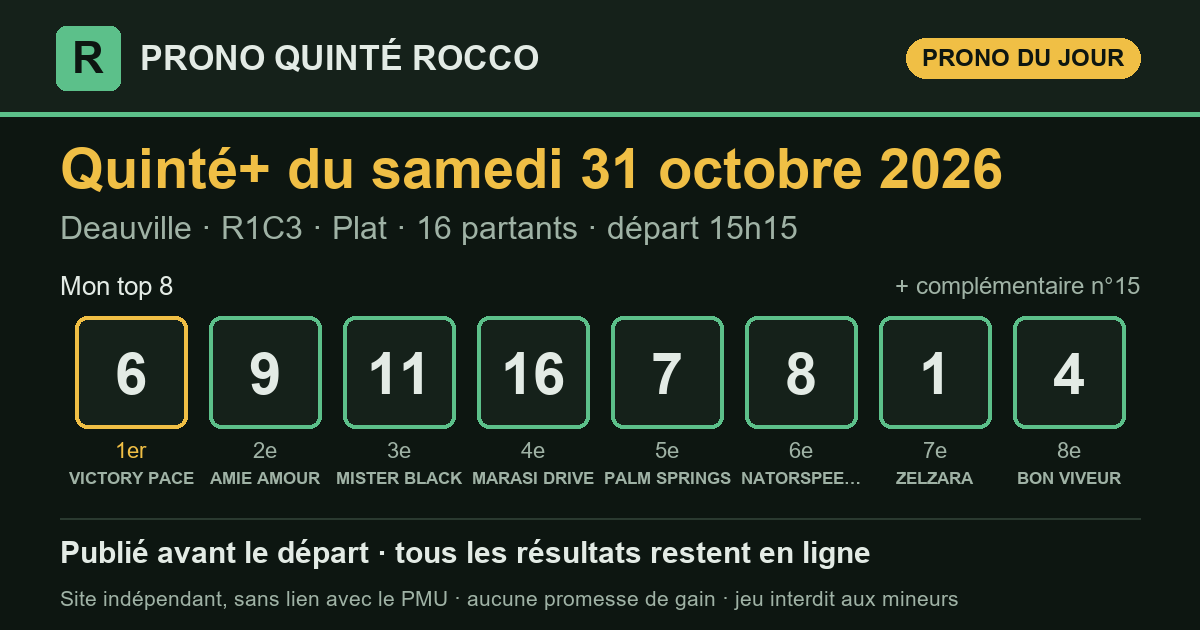
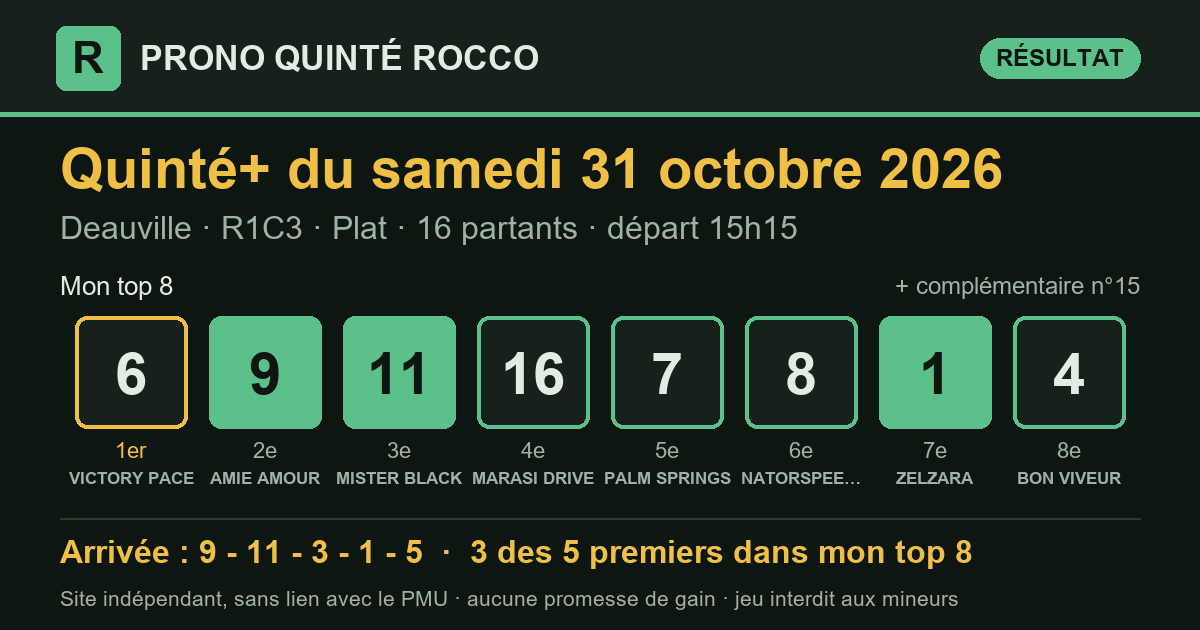
Prono Quinté+ 2026-10-31 Deauville R1C3 — publié le 31/10/2026 21:57 (heure de Paris)

diff --git a/partants.html b/partants.html
@@ -3,7 +3,7 @@
 <head>
 <meta charset="utf-8">
 <meta name="viewport" content="width=device-width, initial-scale=1, viewport-fit=cover">
-<title>Partants du Quinté+ du samedi 31 octobre 2026 — Prono Quinté Rocco</title>
+<title>Partants du Quinté+ du dimanche 1 novembre 2026 — Prono Quinté Rocco</title>
 <meta name="description" content="Les partants du prochain Quinté+ (programme officiel du PMU), avec le rang de chaque cheval dans mon prono et les liens vers les pronostics de la presse.">
 <link rel="canonical" href="https://prono-quinte-rocco.fr/partants.html">
 <link rel="stylesheet" href="style.css?v=88a1c822">
@@ -13,7 +13,7 @@
 <meta property="og:site_name" content="Prono Quinté Rocco">
 <meta property="og:locale" content="fr_FR">
 <meta property="og:type" content="website">
-<meta property="og:title" content="Partants du Quinté+ du samedi 31 octobre 2026 — Prono Quinté Rocco">
+<meta property="og:title" content="Partants du Quinté+ du dimanche 1 novembre 2026 — Prono Quinté Rocco">
 <meta property="og:description" content="Les partants du prochain Quinté+ (programme officiel du PMU), avec le rang de chaque cheval dans mon prono et les liens vers les pronostics de la presse.">
 <meta property="og:url" content="https://prono-quinte-rocco.fr/partants.html">
 <meta name="twitter:card" content="summary">
@@ -29,100 +29,110 @@
   <p class="surtitre">Programme officiel du PMU</p>
   <h1>Les partants du prochain Quinté+</h1>
   <div class="fiche-course">
-    <p class="fiche-date">Samedi 31 octobre 2026</p>
-    <div class="fiche-rc"><span class="pastille" title="Réunion 1">R1</span><span class="pastille" title="Course 3">C3</span><span class="fiche-nom">Prix du Pays de Bray</span></div>
-    <p class="meta">Deauville · Plat · 1 900 m · 16 partants</p>
+    <p class="fiche-date">Dimanche 1 novembre 2026</p>
+    <div class="fiche-rc"><span class="pastille" title="Réunion 1">R1</span><span class="pastille" title="Course 4">C4</span><span class="fiche-nom">Grand Prix de la Ville de Laval</span></div>
+    <p class="meta">Laval · Trot_attele · 2 850 m · 18 partants</p>
     <p class="fiche-depart">Départ <b>15:15</b> <span>heure de Paris</span></p>
   </div>
   <p class="surtitre">Les pronostics ailleurs sur le web</p>
-  <div class="liens"><a class="lien-ext" href="https://www.turfoo.fr/programmes-courses/261031/reunion1-deauville/course3-prix-du-pays-de-bray/pronostics-presse/" rel="noopener" target="_blank"><b>Les pronostics de la presse →</b><span>sur Turfoo (site extérieur)</span></a><a class="lien-ext" href="https://www.geny.com/programme/2026-10-31" rel="noopener" target="_blank"><b>Partants et pronostics →</b><span>programme du jour sur Geny (site extérieur)</span></a></div>
+  <div class="liens"><a class="lien-ext" href="https://www.turfoo.fr/programmes-courses/261101/reunion1-laval/course4-grand-prix-de-la-ville-de-laval/pronostics-presse/" rel="noopener" target="_blank"><b>Les pronostics de la presse →</b><span>sur Turfoo (site extérieur)</span></a><a class="lien-ext" href="https://www.geny.com/programme/2026-11-01" rel="noopener" target="_blank"><b>Partants et pronostics →</b><span>programme du jour sur Geny (site extérieur)</span></a></div>
   <div class="liste-boite"><table class="liste-partants">
     <thead><tr><th>N°</th><th>Cheval</th><th class="cote"><span class="long">Cote du matin</span><span class="court">Cote</span></th>
     <th class="ia"><span class="long">Mon prono</span><span class="court">Prono</span></th></tr></thead>
     <tbody><tr>
   <td><span class="tapis petit">1</span></td>
-  <td><span class="cheval">ZELZARA</span><span class="sous">H.JOURNIAC · Y.BARBEROT (S)</span></td>
-  <td class="cote num">13,0</td>
-  <td class="ia"><span class="etat place">7<sup>e</sup></span></td>
+  <td><span class="cheval">JERICHO DU RIB</span><span class="sous">Mme C. HALLAIS-DERSOIR · JOEL HALLAIS</span></td>
+  <td class="cote num">—</td>
+  <td class="ia">—</td>
 </tr><tr>
   <td><span class="tapis petit">2</span></td>
-  <td><span class="cheval">WOOD MING</span><span class="sous">R.THOMAS · MME C.BARANDE BARBE</span></td>
-  <td class="cote num">30,0</td>
+  <td><span class="cheval">JIBI DU FRUITIER</span><span class="sous">M. MOTTIER · CH.M. BRUNEAU</span></td>
+  <td class="cote num">—</td>
   <td class="ia">—</td>
 </tr><tr>
   <td><span class="tapis petit">3</span></td>
-  <td><span class="cheval">LOUIZA</span><span class="sous">PC.BOUDOT · M.DELZANGLES</span></td>
-  <td class="cote num">15,0</td>
+  <td><span class="cheval">JERZINHO SPORT</span><span class="sous">F. BOUDET · Mme CL. DESMONTILS</span></td>
+  <td class="cote num">—</td>
   <td class="ia">—</td>
 </tr><tr>
   <td><span class="tapis petit">4</span></td>
-  <td><span class="cheval">BON VIVEUR</span><span class="sous">S.PASQUIER · G.PANNIER</span></td>
-  <td class="cote num">14,0</td>
-  <td class="ia"><span class="etat place">8<sup>e</sup></span></td>
+  <td><span class="cheval">LAROZE DU GERS</span><span class="sous">M. ABRIVARD · M. ABRIVARD</span></td>
+  <td class="cote num">—</td>
+  <td class="ia">—</td>
 </tr><tr>
   <td><span class="tapis petit">5</span></td>
-  <td><span class="cheval">CRACKON</span><span class="sous">I.MENDIZABAL · M.DELCHER SANCHEZ</span></td>
-  <td class="cote num">14,0</td>
+  <td><span class="cheval">FAR WEST BI</span><span class="sous">E. RAFFIN · H.E. BONDO</span></td>
+  <td class="cote num">—</td>
   <td class="ia">—</td>
 </tr><tr>
   <td><span class="tapis petit">6</span></td>
-  <td><span class="cheval">VICTORY PACE</span><span class="sous">M.GRANDIN · G.MOSSE (S)</span></td>
-  <td class="cote num">5,9</td>
-  <td class="ia"><span class="etat place">1<sup>er</sup></span></td>
+  <td><span class="cheval">LEMON TREE</span><span class="sous">A. ABRIVARD · W. BIGEON</span></td>
+  <td class="cote num">—</td>
+  <td class="ia">—</td>
 </tr><tr>
   <td><span class="tapis petit">7</span></td>
-  <td><span class="cheval">PALM SPRINGS</span><span class="sous">C.LECOEUVRE · M.BARATTI (S)</span></td>
-  <td class="cote num">10,0</td>
-  <td class="ia"><span class="etat place">5<sup>e</sup></span></td>
+  <td><span class="cheval">JANKO HAUFOR</span><span class="sous">D. BONNE · CH. BIGEON</span></td>
+  <td class="cote num">—</td>
+  <td class="ia">—</td>
 </tr><tr>
   <td><span class="tapis petit">8</span></td>
-  <td><span class="cheval">NATORSPEED ESSEF</span><span class="sous">T.PICCONE · HA.PANTALL (S)</span></td>
-  <td class="cote num">14,0</td>
-  <td class="ia"><span class="etat place">6<sup>e</sup></span></td>
+  <td><span class="cheval">JASMINE DE VAU</span><span class="sous">CH. DREUX · Ch. DREUX</span></td>
+  <td class="cote num">—</td>
+  <td class="ia">—</td>
 </tr><tr>
   <td><span class="tapis petit">9</span></td>
-  <td><span class="cheval">AMIE AMOUR</span><span class="sous">M.GUYON · P&amp;J.BRANDT (S)</span></td>
-  <td class="cote num">6,1</td>
-  <td class="ia"><span class="etat place">2<sup>e</sup></span></td>
+  <td><span class="cheval">INDY DARK</span><span class="sous">P.EDOUARD MARY · J.F. MARY</span></td>
+  <td class="cote num">—</td>
+  <td class="ia">—</td>
 </tr><tr>
   <td><span class="tapis petit">10</span></td>
-  <td><span class="cheval">IL MAGISTERO</span><span class="sous">L.PLOMMEE · M.CESANDRI (S)</span></td>
-  <td class="cote num">39,0</td>
+  <td><span class="cheval">ILLUSION JIPAD</span><span class="sous">P. LELIEVRE · P. LELIEVRE</span></td>
+  <td class="cote num">—</td>
   <td class="ia">—</td>
 </tr><tr>
   <td><span class="tapis petit">11</span></td>
-  <td><span class="cheval">MISTER BLACK</span><span class="sous">M.LERNER · C&amp;Y.LERNER (S)</span></td>
-  <td class="cote num">7,5</td>
-  <td class="ia"><span class="etat place">3<sup>e</sup></span></td>
+  <td><span class="cheval">L&#x27;ECRIN D&#x27;OR</span><span class="sous">J.PH. RAFFEGEAU · L.CL. ABRIVARD</span></td>
+  <td class="cote num">—</td>
+  <td class="ia">—</td>
 </tr><tr>
   <td><span class="tapis petit">12</span></td>
-  <td><span class="cheval">INGEBORG</span><span class="sous">H.BOUTIN · J.BOISNARD (S)</span></td>
-  <td class="cote num">31,0</td>
+  <td><span class="cheval">IBIZA BELLA</span><span class="sous">A. WIELS · J.P. MARMION</span></td>
+  <td class="cote num">—</td>
   <td class="ia">—</td>
 </tr><tr>
   <td><span class="tapis petit">13</span></td>
-  <td><span class="cheval">BLANC CARAT</span><span class="sous">G.SIAS · V.SARTORI</span></td>
-  <td class="cote num">38,0</td>
+  <td><span class="cheval">IDYLLE EXPRESS</span><span class="sous">Mlle CL. LELIEVRE · EMILIEN RAULLINE</span></td>
+  <td class="cote num">—</td>
   <td class="ia">—</td>
 </tr><tr>
   <td><span class="tapis petit">14</span></td>
-  <td><span class="cheval">HONEY PEARL</span><span class="sous">A.CRASTUS · C.LECRIVAIN</span></td>
-  <td class="cote num">29,0</td>
+  <td><span class="cheval">INSHORE</span><span class="sous">LEO ABRIVARD · LEO ABRIVARD</span></td>
+  <td class="cote num">—</td>
   <td class="ia">—</td>
 </tr><tr>
   <td><span class="tapis petit">15</span></td>
-  <td><span class="cheval">PARVAGE</span><span class="sous">D.PROVOST · Y.BARBEROT (S)</span></td>
-  <td class="cote num">20,0</td>
-  <td class="ia"><span class="etat place">compl.</span></td>
+  <td><span class="cheval">ISOFOU DU CHENE</span><span class="sous">P.PH. PLOQUIN · J. LE MER</span></td>
+  <td class="cote num">—</td>
+  <td class="ia">—</td>
 </tr><tr>
   <td><span class="tapis petit">16</span></td>
-  <td><span class="cheval">MARASI DRIVE</span><span class="sous">A.LEMAITRE · F.CHAPPET (S)</span></td>
-  <td class="cote num">17,0</td>
-  <td class="ia"><span class="etat place">4<sup>e</sup></span></td>
+  <td><span class="cheval">J&#x27;AIME LE FOOT</span><span class="sous">A. LHERETE · Antoine LHERETE</span></td>
+  <td class="cote num">—</td>
+  <td class="ia">—</td>
+</tr><tr>
+  <td><span class="tapis petit">17</span></td>
+  <td><span class="cheval">KANTO AVIS</span><span class="sous">B. ROCHARD · M. SASSIER</span></td>
+  <td class="cote num">—</td>
+  <td class="ia">—</td>
+</tr><tr>
+  <td><span class="tapis petit">18</span></td>
+  <td><span class="cheval">KING OPERA</span><span class="sous">W. BIGEON · W. BIGEON</span></td>
+  <td class="cote num">—</td>
+  <td class="ia">—</td>
 </tr></tbody>
   </table></div>
-  <p class="meta">La colonne « Mon prono » donne le rang de chaque cheval dans mon top 8, tel qu&#x27;il est publié sur ce site. Sous chaque cheval : jockey · entraîneur. Partants et cotes : programme
-  officiel du PMU, lu le 31/10 à 11:07 (heure de Paris). NP = non-partant.</p>
+  <p class="meta">Mon prono de cette course sera publié le matin de la course, avant le départ. Sous chaque cheval : driver · entraîneur. Partants et cotes : programme
+  officiel du PMU, lu le 31/10 à 21:57 (heure de Paris). NP = non-partant.</p>
 </section>
 </main>
 <footer class="pied">

diff --git a/index.html b/index.html
@@ -16,7 +16,7 @@
 <meta property="og:title" content="Pronostic Quinté+ du samedi 31 octobre 2026 — Prono Quinté Rocco">
 <meta property="og:description" content="Pronostic Quinté+ du jour : mon top 8, publié avant le départ, puis tous les résultats et le rendement réel.">
 <meta property="og:url" content="https://prono-quinte-rocco.fr/">
-<meta property="og:image" content="https://prono-quinte-rocco.fr/partage/2026-10-31.png?v=f92602c6">
+<meta property="og:image" content="https://prono-quinte-rocco.fr/partage/2026-10-31.png?v=ea987340">
 <meta property="og:image:type" content="image/png">
 <meta property="og:image:width" content="1200">
 <meta property="og:image:height" content="630">
@@ -31,7 +31,7 @@
 </header>
 <main>
 <section class="une" aria-labelledby="t-jour">
-  <p class="surtitre">Quinté+ du jour</p>
+  <p class="surtitre">Dernier Quinté+</p>
   <h1 id="t-jour">Le prono du Quinté+, résultats compris</h1>
   <p class="chapo">Chaque matin, j'étudie les partants du Quinté+ avec le logiciel que
   j'ai conçu, selon ma propre méthode, qu'une intelligence artificielle m'aide à
@@ -42,10 +42,13 @@
   <p class="meta">Deauville · <strong>R1C3</strong> · Plat · 16 partants · lisibilité <span class="note" aria-label="note 2 sur 5"><i class="on"></i><i class="on"></i><i class=""></i><i class=""></i><i class=""></i></span> 2/5</p>
   <div class="zone-prono">
     <h3 class="zone-titre">Mon top 8</h3>
-    <ol class="partants" aria-label="Mon top 8"><li><span class="rang">1<sup>er</sup></span><span class="tapis ">6</span><span class="nom">VICTORY PACE</span></li><li><span class="rang">2<sup>e</sup></span><span class="tapis ">9</span><span class="nom">AMIE AMOUR</span></li><li><span class="rang">3<sup>e</sup></span><span class="tapis ">11</span><span class="nom">MISTER BLACK</span></li><li><span class="rang">4<sup>e</sup></span><span class="tapis ">16</span><span class="nom">MARASI DRIVE</span></li><li><span class="rang">5<sup>e</sup></span><span class="tapis ">7</span><span class="nom">PALM SPRINGS</span></li><li><span class="rang">6<sup>e</sup></span><span class="tapis ">8</span><span class="nom">NATORSPEED ESSEF</span></li><li><span class="rang">7<sup>e</sup></span><span class="tapis ">1</span><span class="nom">ZELZARA</span></li><li><span class="rang">8<sup>e</sup></span><span class="tapis ">4</span><span class="nom">BON VIVEUR</span></li><li><span class="rang">compl.</span><span class="tapis creux">15</span><span class="nom">PARVAGE</span></li></ol>
+    <ol class="partants" aria-label="Mon top 8"><li><span class="rang">1<sup>er</sup></span><span class="tapis ">6</span><span class="nom">VICTORY PACE</span></li><li><span class="rang">2<sup>e</sup></span><span class="tapis plein">9</span><span class="nom">AMIE AMOUR</span></li><li><span class="rang">3<sup>e</sup></span><span class="tapis plein">11</span><span class="nom">MISTER BLACK</span></li><li><span class="rang">4<sup>e</sup></span><span class="tapis ">16</span><span class="nom">MARASI DRIVE</span></li><li><span class="rang">5<sup>e</sup></span><span class="tapis ">7</span><span class="nom">PALM SPRINGS</span></li><li><span class="rang">6<sup>e</sup></span><span class="tapis ">8</span><span class="nom">NATORSPEED ESSEF</span></li><li><span class="rang">7<sup>e</sup></span><span class="tapis plein">1</span><span class="nom">ZELZARA</span></li><li><span class="rang">8<sup>e</sup></span><span class="tapis ">4</span><span class="nom">BON VIVEUR</span></li><li><span class="rang">compl.</span><span class="tapis creux">15</span><span class="nom">PARVAGE</span></li></ol>
     <div class="pied-carte"><span>Analysé le 31/10 à 11:01 · en ligne le 31/10 à 11:07 · départ à 15:15 (heure de Paris)</span><span><a href="quinte/2026-10-31.html">Détail de la course</a></span></div>
   </div>
-  <div class="zone-arrivee attente"><p>L'arrivée officielle s'affichera ici après la course.</p></div>
+  <div class="zone-arrivee">
+    <div class="zone-tete"><h3 class="zone-titre">Arrivée officielle</h3><span class="etat place">3 des 5 premiers dans mon top 8</span><span class="etat non">mon 1er (n°6) : non placé</span></div>
+    <ol class="partants" aria-label="Arrivée officielle"><li><span class="rang">1<sup>er</sup></span><span class="tapis plein">9</span><span class="nom">AMIE AMOUR</span></li><li><span class="rang">2<sup>e</sup></span><span class="tapis plein">11</span><span class="nom">MISTER BLACK</span></li><li><span class="rang">3<sup>e</sup></span><span class="tapis hors">3</span><span class="nom">LOUIZA</span></li><li><span class="rang">4<sup>e</sup></span><span class="tapis plein">1</span><span class="nom">ZELZARA</span></li><li><span class="rang">5<sup>e</sup></span><span class="tapis hors">5</span><span class="nom">CRACKON</span></li></ol>
+  </div>
 </article>
 </section>
 <section class="suivre" aria-label="Suivre et soutenir">
@@ -75,7 +78,7 @@
 </section>
 <section class="bilan" aria-labelledby="t-bilan">
   <h2 id="t-bilan">Mon bilan depuis le 8 septembre 2026</h2>
-  <div class="tableau chiffres"><div class="case"><span class="gros ">72 %</span><span class="lib">des arrivants trouvés dans mon top 8</span><span class="ref">un top 8 tiré au hasard : 51 %</span></div><div class="case"><span class="gros ">87 %</span><span class="lib">des gagnants présents dans mon top 8</span><span class="ref"></span></div><div class="case"><span class="gros ">48 %</span><span class="lib">mon 1er placé</span><span class="ref">sur 52 Quintés</span></div><div class="case"><span class="gros perte">0,89 €</span><span class="lib">rendus pour 1 € joué placé sur mon 1er</span><span class="ref">rapports officiels PMU</span></div><div class="case"><span class="gros perte">0,45 €</span><span class="lib">rendus pour 1 € joué en Quinté+ combiné sur mon top 8</span><span class="ref">56 combinaisons, rapports PMU.fr, sur 52 Quintés</span></div></div>
+  <div class="tableau chiffres"><div class="case"><span class="gros ">72 %</span><span class="lib">des arrivants trouvés dans mon top 8</span><span class="ref">un top 8 tiré au hasard : 51 %</span></div><div class="case"><span class="gros ">87 %</span><span class="lib">des gagnants présents dans mon top 8</span><span class="ref"></span></div><div class="case"><span class="gros ">48 %</span><span class="lib">mon 1er placé</span><span class="ref">sur 52 Quintés</span></div><div class="case"><span class="gros perte">0,89 €</span><span class="lib">rendus pour 1 € joué placé sur mon 1er</span><span class="ref">rapports officiels PMU</span></div><div class="case"><span class="gros perte">0,44 €</span><span class="lib">rendus pour 1 € joué en Quinté+ combiné sur mon top 8</span><span class="ref">56 combinaisons, rapports PMU.fr, sur 53 Quintés</span></div></div>
   <p class="avertissement">Moins de 1 € rendu pour 1 € joué : suivre mon prono à la lettre fait <strong>perdre de l'argent</strong> sur cette période. Il sert à analyser une course, pas à promettre un gain.</p>
 </section>
 </main>

diff --git a/quinte/2026-10-31.html b/quinte/2026-10-31.html
@@ -16,7 +16,7 @@
 <meta property="og:title" content="Pronostic Quinté+ du samedi 31 octobre 2026 à Deauville — Prono Quinté Rocco">
 <meta property="og:description" content="Prono Quinté+ du samedi 31 octobre 2026 (Deauville) : mon top 8, l&#x27;arrivée officielle et les rapports PMU.fr.">
 <meta property="og:url" content="https://prono-quinte-rocco.fr/quinte/2026-10-31.html">
-<meta property="og:image" content="https://prono-quinte-rocco.fr/partage/2026-10-31.png?v=f92602c6">
+<meta property="og:image" content="https://prono-quinte-rocco.fr/partage/2026-10-31.png?v=ea987340">
 <meta property="og:image:type" content="image/png">
 <meta property="og:image:width" content="1200">
 <meta property="og:image:height" content="630">
@@ -35,15 +35,25 @@
   <h1>Pronostic Quinté+ du samedi 31 octobre 2026</h1>
   <p class="chapo">Deauville · R1C3 · Plat · 16 partants</p>
   <article class="carte-course">
-  <div class="tete"><h2>Mon prono</h2></div>
+  <div class="tete"><h2>Mon prono et l&#x27;arrivée officielle</h2></div>
   <p class="meta">Deauville · <strong>R1C3</strong> · Plat · 16 partants · lisibilité <span class="note" aria-label="note 2 sur 5"><i class="on"></i><i class="on"></i><i class=""></i><i class=""></i><i class=""></i></span> 2/5</p>
   <div class="zone-prono">
     <h3 class="zone-titre">Mon top 8</h3>
-    <ol class="partants" aria-label="Mon top 8"><li><span class="rang">1<sup>er</sup></span><span class="tapis ">6</span><span class="nom">VICTORY PACE</span></li><li><span class="rang">2<sup>e</sup></span><span class="tapis ">9</span><span class="nom">AMIE AMOUR</span></li><li><span class="rang">3<sup>e</sup></span><span class="tapis ">11</span><span class="nom">MISTER BLACK</span></li><li><span class="rang">4<sup>e</sup></span><span class="tapis ">16</span><span class="nom">MARASI DRIVE</span></li><li><span class="rang">5<sup>e</sup></span><span class="tapis ">7</span><span class="nom">PALM SPRINGS</span></li><li><span class="rang">6<sup>e</sup></span><span class="tapis ">8</span><span class="nom">NATORSPEED ESSEF</span></li><li><span class="rang">7<sup>e</sup></span><span class="tapis ">1</span><span class="nom">ZELZARA</span></li><li><span class="rang">8<sup>e</sup></span><span class="tapis ">4</span><span class="nom">BON VIVEUR</span></li><li><span class="rang">compl.</span><span class="tapis creux">15</span><span class="nom">PARVAGE</span></li></ol>
+    <ol class="partants" aria-label="Mon top 8"><li><span class="rang">1<sup>er</sup></span><span class="tapis ">6</span><span class="nom">VICTORY PACE</span></li><li><span class="rang">2<sup>e</sup></span><span class="tapis plein">9</span><span class="nom">AMIE AMOUR</span></li><li><span class="rang">3<sup>e</sup></span><span class="tapis plein">11</span><span class="nom">MISTER BLACK</span></li><li><span class="rang">4<sup>e</sup></span><span class="tapis ">16</span><span class="nom">MARASI DRIVE</span></li><li><span class="rang">5<sup>e</sup></span><span class="tapis ">7</span><span class="nom">PALM SPRINGS</span></li><li><span class="rang">6<sup>e</sup></span><span class="tapis ">8</span><span class="nom">NATORSPEED ESSEF</span></li><li><span class="rang">7<sup>e</sup></span><span class="tapis plein">1</span><span class="nom">ZELZARA</span></li><li><span class="rang">8<sup>e</sup></span><span class="tapis ">4</span><span class="nom">BON VIVEUR</span></li><li><span class="rang">compl.</span><span class="tapis creux">15</span><span class="nom">PARVAGE</span></li></ol>
     <div class="pied-carte"><span>Analysé le 31/10 à 11:01 · en ligne le 31/10 à 11:07 · départ à 15:15 (heure de Paris)</span><span></span></div>
   </div>
-  <div class="zone-arrivee attente"><p>L'arrivée officielle s'affichera ici après la course.</p></div>
+  <div class="zone-arrivee">
+    <div class="zone-tete"><h3 class="zone-titre">Arrivée officielle</h3><span class="etat place">3 des 5 premiers dans mon top 8</span><span class="etat non">mon 1er (n°6) : non placé</span></div>
+    <ol class="partants" aria-label="Arrivée officielle"><li><span class="rang">1<sup>er</sup></span><span class="tapis plein">9</span><span class="nom">AMIE AMOUR</span></li><li><span class="rang">2<sup>e</sup></span><span class="tapis plein">11</span><span class="nom">MISTER BLACK</span></li><li><span class="rang">3<sup>e</sup></span><span class="tapis hors">3</span><span class="nom">LOUIZA</span></li><li><span class="rang">4<sup>e</sup></span><span class="tapis plein">1</span><span class="nom">ZELZARA</span></li><li><span class="rang">5<sup>e</sup></span><span class="tapis hors">5</span><span class="nom">CRACKON</span></li></ol>
+  </div>
 </article>
+<section class="carte-course rapports" aria-labelledby="t-rap">
+  <div class="tete"><h2 id="t-rap">Les rapports</h2></div>
+  <div class="deux">
+    <div><h3>Ce qu'aurait rendu mon prono</h3><dl class="kv"><dt>1 € placé sur mon 1er (n°6)</dt><dd>rapport manquant</dd><dt>1 € gagnant sur mon 1er</dt><dd>rapport manquant</dd><dt>Quinté+ combiné sur mon top 8 (mise 112 €)</dt><dd>0,00 €</dd><dt>dont</dt><dd>aucun gain</dd></dl></div>
+    <div><h3>Rapports officiels</h3><dl class="kv"><dt>e-Quinté+ Ordre (2 €)</dt><dd>13 245,60 €</dd><dt>e-Quinté+ Désordre (2 €)</dt><dd>156,20 €</dd><dt>e-Bonus 4sur5 (2 €)</dt><dd>5,60 €</dd><dt>e-Bonus 3 (2 €)</dt><dd>4,60 €</dd></dl></div>
+  </div>
+</section>
 </section>
 </main>
 <footer class="pied">

diff --git a/resultats.html b/resultats.html
@@ -40,11 +40,11 @@
     <th colspan="4" class="res g-res">Le résultat officiel</th></tr>
     <tr><th>Date</th><th>Course</th><th>Top 8</th><th class="res c-arr">Arrivée</th>
     <th class="res">Trouvés</th><th class="res">Mon 1er</th><th class="res mont">Quinté+ top 8<br>(mise 112 €)</th></tr></thead>
-    <tbody><tr class="attente">
+    <tbody><tr>
   <td class="c-date"><a href="quinte/2026-10-31.html">31/10</a></td>
   <td class="c-course">Deauville<br><span class="meta">R1C3 · Plat</span></td>
-  <td class="c-top8" data-label="Mon top 8"><div class="rangee"><span class="tapis petit">6</span><span class="tapis petit">9</span><span class="tapis petit">11</span><span class="tapis petit">16</span><span class="tapis petit">7</span><span class="tapis petit">8</span><span class="tapis petit">1</span><span class="tapis petit">4</span></div></td>
-  <td class="res c-arr" data-label="Arrivée"><span class="etat attente">en attente</span></td><td class="res num c-trouves" data-label="Trouvés">—</td><td class="res c-premier" data-label="Mon 1er"><span class="etat attente">—</span></td><td class="res mont c-mont" data-label="Quinté+ top 8 (mise 112 €)">—</td>
+  <td class="c-top8" data-label="Mon top 8"><div class="rangee"><span class="tapis petit">6</span><span class="tapis plein petit">9</span><span class="tapis plein petit">11</span><span class="tapis petit">16</span><span class="tapis petit">7</span><span class="tapis petit">8</span><span class="tapis plein petit">1</span><span class="tapis petit">4</span></div></td>
+  <td class="res c-arr" data-label="Arrivée"><div class="rangee"><span class="tapis plein petit" title="1er">9</span><span class="tapis plein petit" title="2e">11</span><span class="tapis hors petit" title="3e">3</span><span class="tapis plein petit" title="4e">1</span><span class="tapis hors petit" title="5e">5</span></div></td><td class="res num c-trouves" data-label="Trouvés">3/5</td><td class="res c-premier" data-label="Mon 1er"><span class="etat non">non placé</span></td><td class="res mont c-mont perte" data-label="Quinté+ top 8 (mise 112 €)">0,00 €</td>
 </tr><tr>
   <td class="c-date"><a href="quinte/2026-10-30.html">30/10</a></td>
   <td class="c-course">Vincennes<br><span class="meta">R1C5 · Attelé</span></td>
@@ -310,7 +310,7 @@
 </section>
 <section class="bilan" aria-labelledby="t-bilan">
   <h2 id="t-bilan">Mon bilan depuis le 8 septembre 2026</h2>
-  <div class="tableau chiffres"><div class="case"><span class="gros ">72 %</span><span class="lib">des arrivants trouvés dans mon top 8</span><span class="ref">un top 8 tiré au hasard : 51 %</span></div><div class="case"><span class="gros ">87 %</span><span class="lib">des gagnants présents dans mon top 8</span><span class="ref"></span></div><div class="case"><span class="gros ">48 %</span><span class="lib">mon 1er placé</span><span class="ref">sur 52 Quintés</span></div><div class="case"><span class="gros perte">0,89 €</span><span class="lib">rendus pour 1 € joué placé sur mon 1er</span><span class="ref">rapports officiels PMU</span></div><div class="case"><span class="gros perte">0,45 €</span><span class="lib">rendus pour 1 € joué en Quinté+ combiné sur mon top 8</span><span class="ref">56 combinaisons, rapports PMU.fr, sur 52 Quintés</span></div></div>
+  <div class="tableau chiffres"><div class="case"><span class="gros ">72 %</span><span class="lib">des arrivants trouvés dans mon top 8</span><span class="ref">un top 8 tiré au hasard : 51 %</span></div><div class="case"><span class="gros ">87 %</span><span class="lib">des gagnants présents dans mon top 8</span><span class="ref"></span></div><div class="case"><span class="gros ">48 %</span><span class="lib">mon 1er placé</span><span class="ref">sur 52 Quintés</span></div><div class="case"><span class="gros perte">0,89 €</span><span class="lib">rendus pour 1 € joué placé sur mon 1er</span><span class="ref">rapports officiels PMU</span></div><div class="case"><span class="gros perte">0,44 €</span><span class="lib">rendus pour 1 € joué en Quinté+ combiné sur mon top 8</span><span class="ref">56 combinaisons, rapports PMU.fr, sur 53 Quintés</span></div></div>
   <p class="avertissement">Moins de 1 € rendu pour 1 € joué : suivre mon prono à la lettre fait <strong>perdre de l'argent</strong> sur cette période. Il sert à analyser une course, pas à promettre un gain.</p>
 </section>
 </main>
